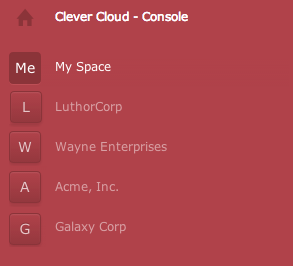
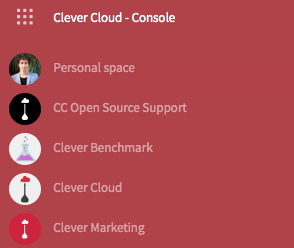
org enterprise

diff --git a/commons/admin-console/organizations.md b/commons/admin-console/organizations.md
@@ -16,10 +16,18 @@ Organization names are uniques. It means that you cannot use an organization nam
 In order to add an organization, just click on "Add an organization" in the top left dropdown menu:
 
 <figure class="cc-content-img">
-  <a href="/assets/images/gotohome.png"><img src="/assets/images/gotohome.png"/></a>
-  <figcaption>
-    Access to your organizations via the red sidebar
-  </figcaption>
+<a href="/assets/images/gotohome.png"><img src="/assets/images/gotohome.png"/></a>
+<figcaption>
+Access to your organizations via the red sidebar
+</figcaption>
+</figure>
+
+
+<figure class="cc-content-img">
+<a href="/assets/images/gotohome.png"><img src="/assets/images/orga-enterprise.png"/></a>
+<figcaption>
+An organization can represent an enterprise, for an easier invoicing process
+</figcaption>
 </figure>
 
 
